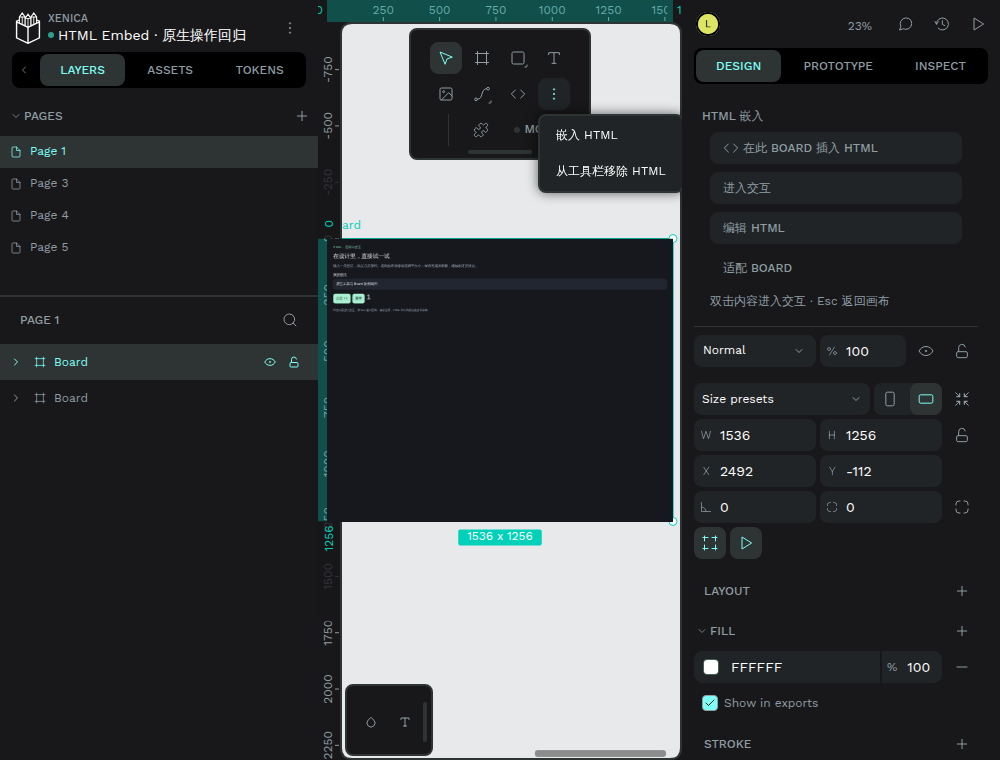
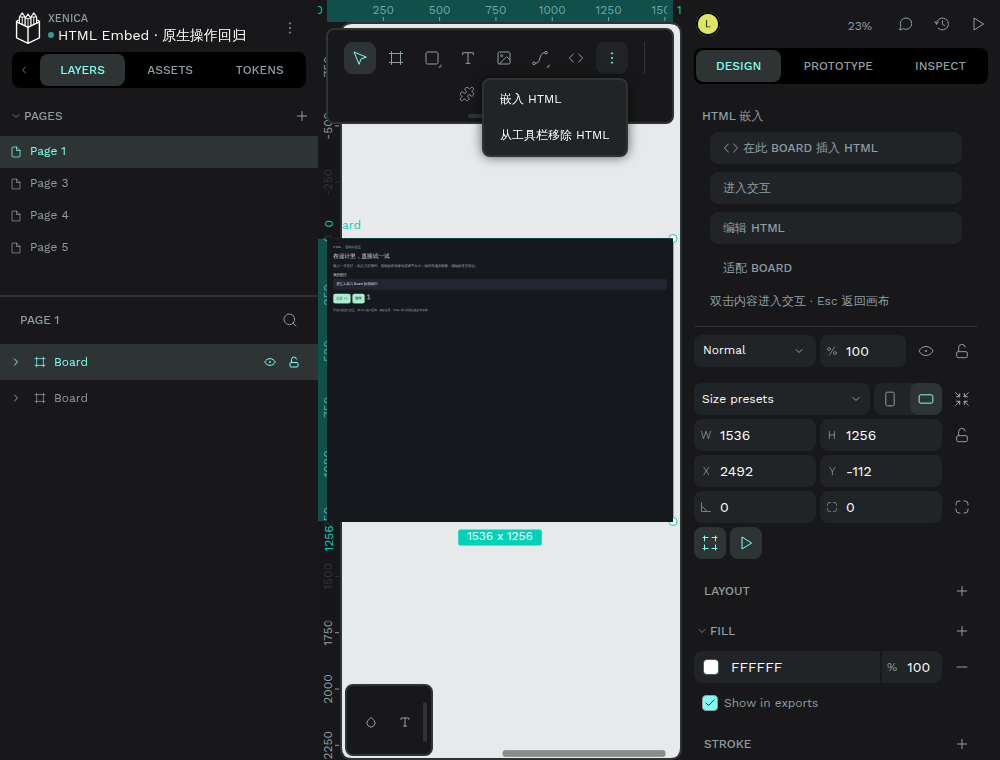
fix(penpot): 保持原生工具栏布局与菜单可达

diff --git a/deploy/penpot/html-embed/controls.scss b/deploy/penpot/html-embed/controls.scss
@@ -3,15 +3,17 @@
   border-block-end: 1px solid var(--color-background-quaternary);
   padding-block: 8px;
 }
+
 .actions {
   display: flex;
   flex-direction: column;
   gap: 8px;
   padding: 0 16px 8px;
 }
+
 .hint {
   color: var(--color-foreground-secondary);
-  font-size: 12px;
+  font-size: 0.75rem;
   margin: 0;
   line-height: 1.5;
 }
@@ -19,5 +21,5 @@
 .tools-menu {
   position: absolute;
   inset-block-start: 36px;
-  inset-inline-start: 0;
+  inset-inline: auto 0;
 }

diff --git a/deploy/penpot/html-embed/toolbar.scss b/deploy/penpot/html-embed/toolbar.scss
@@ -1,7 +1,9 @@
 /* Canvas HTML tools share the native toolbar, including narrow viewports. */
 .toolbar {
+  inline-size: max-content;
   max-inline-size: calc(100% - 16px);
 }
+
 .toolbar-options {
   max-inline-size: 100%;
   flex-wrap: wrap;

diff --git a/deploy/penpot/html-embed/apply.py b/deploy/penpot/html-embed/apply.py
@@ -23,9 +23,9 @@ for template in [root / "frontend/resources/templates/index.mustache", root / "f
     if not template.exists():
         continue
     source = template.read_text()
-    source = re.sub(r'/js/xenica-html-embed\.js[^\"]*', '/js/xenica-html-embed.js?v=81-r9', source)
+    source = re.sub(r'/js/xenica-html-embed\.js[^\"]*', '/js/xenica-html-embed.js?v=81-r10', source)
     if "xenica-html-embed.js" not in source:
-        source = source.replace("</head>", '<script type="module" src="/js/xenica-html-embed.js?v=81-r9"></script>\n</head>')
+        source = source.replace("</head>", '<script type="module" src="/js/xenica-html-embed.js?v=81-r10"></script>\n</head>')
     template.write_text(source)
 print("Applied HTML embed workspace patch")
 

diff --git a/docs/context/penpot-html-embed.md b/docs/context/penpot-html-embed.md
@@ -12,4 +12,4 @@
 
 第二次录屏明确反馈只能放大不能缩小、Board 改尺寸后 HTML 不同步。r7 修复 iframe 截走向内拖拽事件，新增「适配 Board」和双向拉伸约束、祖先 Board 裁剪、底部面板避让。线上独立副本八项浏览器场景、原体验文件保留内容的可撤销适配与刷新、40 次连续画布手势均通过；上游 746 测试/2775 断言重新运行通过。独立备份 20261017T070719Z，当前产物和云端归档校验见 evidence.json。仍待用户体验，不合并。
 
-五项浏览器批注再次退回：原生 Board 操作、新 Board 插入、独立底部 UI 和 Excalidraw 参考。r9 将入口接入原生顶部更多工具（可固定）和右侧属性面板；插入绑定明确 Board，移除底部工具条与块上按钮。iframe 逻辑视口独立于画布缩放；真实鼠标验证覆盖 8%–200%，原生 Board/HTML 双向缩放与移动、第二 Board、刷新、窄屏及只读原型。独立备份 20261017T111403Z 校验通过。发现服务器旧备份脚本尚未安装仓库已实现的 PG 路由适配，已恢复部署仓库版本；数据库端点与定时计划不变。当前源码/产物和场景证据见 evidence.json；用户尚未验收，不合并。
+五项浏览器批注再次退回：原生 Board 操作、新 Board 插入、独立底部 UI 和 Excalidraw 参考。r10 将入口接入原生顶部更多工具（可固定）和右侧属性面板；插入绑定明确 Board，移除底部工具条与块上按钮。iframe 逻辑视口独立于画布缩放；真实鼠标验证覆盖 8%–200%，原生 Board/HTML 双向缩放与移动、第二 Board、刷新、窄屏及只读原型。独立备份 20261017T111403Z 校验通过。发现服务器旧备份脚本尚未安装仓库已实现的 PG 路由适配，已恢复部署仓库版本；数据库端点与定时计划不变。当前源码/产物和场景证据见 evidence.json；用户尚未验收，不合并。
